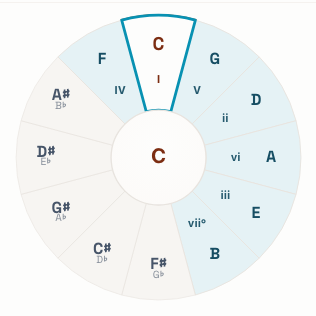
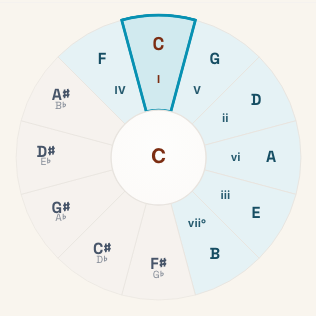
fix(circle-of-fifths): retune light-mode active slice to cyan
Light-mode active slice fill and stroke updated from --neon-orange to
--neon-cyan at 18% mix (static) and 22% mix (hover), matching the
in-key slice hue family. Dark-mode active orange is unchanged.
Darwin visual snapshot refreshed for circle-of-fifths-light.

Changed region(s): [[0.3703, 0.0285, 0.6266, 0.3703]]

diff --git a/src/components/CircleOfFifths/CircleOfFifths.module.css b/src/components/CircleOfFifths/CircleOfFifths.module.css
@@ -216,8 +216,8 @@
 }
 
 :global([data-theme="modern-light"]) .circle-slice.active {
-  fill: color-mix(in srgb, var(--neon-orange) 14%, var(--surface-base));
-  stroke: var(--neon-orange) !important;
+  fill: color-mix(in srgb, var(--neon-cyan) 18%, var(--surface-base));
+  stroke: var(--neon-cyan) !important;
   stroke-width: 2.4 !important;
   filter: none;
 }
@@ -231,7 +231,7 @@
 }
 
 :global([data-theme="modern-light"]) .circle-slice.active:hover {
-  fill: color-mix(in srgb, var(--neon-orange) 22%, var(--surface-base));
+  fill: color-mix(in srgb, var(--neon-cyan) 22%, var(--surface-base));
 }
 
 .circle-slice:focus,